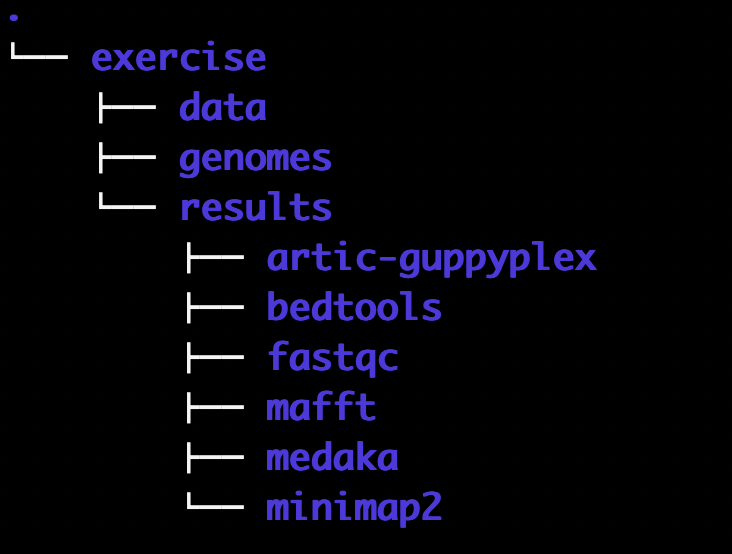
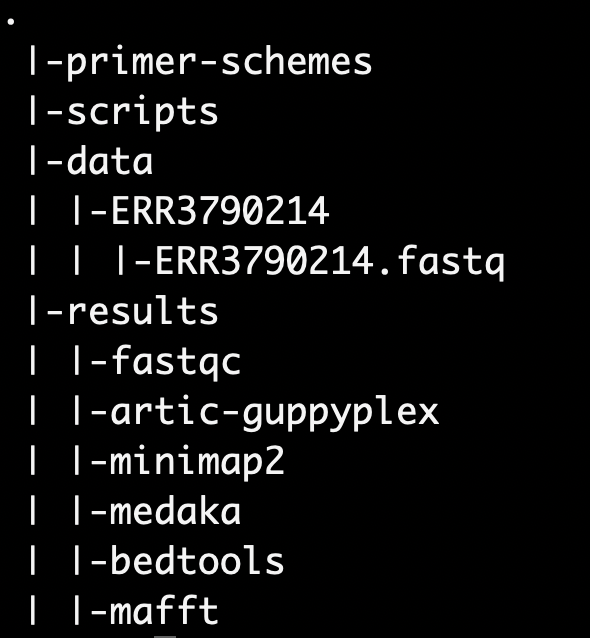
add primer-schemes directory

diff --git a/artic-ont-viral/practicals/README.md b/artic-ont-viral/practicals/README.md
@@ -43,8 +43,10 @@ The major steps of the pipeline can be presented as shown in the figure below
 The following auxilliary files are provided and you will need to create
 `symbolic` links 
 
-- Primer scheme for amplicon in `BED` format located at
-  `/var/scratch/global/ont-artic/primer-schemes`
+- Primer scheme for amplicon in `bed` format located at
+  `/var/scratch/global/ont-artic/primer-schemes/primer.bed`
+- Reference genome file in `fasta` format located at
+  `/var/scratch/global/ont-artic/primer-schemes/reference.fasta`
 - Additional Dengue virus genomes in `fasta` format located at
   `/var/scratch/global/ont-artic/auxilliary-dengue-genomes`
 - Utility scripts available at `/var/scratch/global/ont-artic/scripts`
@@ -60,16 +62,15 @@ Please document all the steps in the analysis and replicate the commands in a
 Ensure you are working in the `/var/scratch/$USER/` directory
 
 1. Login to the `hpc` using your provided credentials
-2. Begin an `interactive` session with 2 `cpus` on either `compute05` or `compute06`
-3. Organize your project directory structure as indicated below. 
+2. Begin an `interactive` session with 2 `cpus` on either `compute05` or
+   `compute06`
+3. Create `soft` or `symbolic` links to the required directories or files
+4. Organize your project directory structure as indicated below. 
 
     <img src="../img/dir-exercise.png" alt="Project directory structure"
     style="height: px; width:27212px;"/>
-4. Create `soft` or `symbolic` links to the required directories
 5. Load all the required modules that will be utilized in the analysis steps
-6. Retrieve the reference genome sequence from the NCBI database and output it
-   in the `genomes` directory
-7. The raw data in `fastq` format can be retrieved from the European Nucleotide
+6. The raw data in `fastq` format can be retrieved from the European Nucleotide
    Archive [(ENA)](https://www.ebi.ac.uk/ena/browser/) database. 
 
    Apply the appropriate tool to retrieve the raw reads for the accession
@@ -84,10 +85,8 @@ Ensure you are working in the `/var/scratch/$USER/` directory
     <br>
     </details>
 
-
-8. Download reference genome file in FASTA format using your preffered method.
  
-9. For use in variant calling and visualization of alignment, please create the
+7. For use in variant calling and visualization of alignment, please create the
    genome index of the reference genome
 
    >**<strong style="color:magenta;opacity: 0.80;">Quiz:</strong>**
@@ -95,7 +94,7 @@ Ensure you are working in the `/var/scratch/$USER/` directory
     - What does the above step perform?
     - What is the size of the genome in base pairs?
 
-10. Perform a quality assessment of the raw reads in `fastq` format and output
+8. Perform a quality assessment of the raw reads in `fastq` format and output
     the files in the appropriate directory.
 
     >**<strong style="color:magenta;opacity: 0.80;">Quiz:</strong>**
@@ -103,7 +102,7 @@ Ensure you are working in the `/var/scratch/$USER/` directory
     - Report the total number of sequences? sequences flagged as poor quality? sequence
     lengths distribution? and percetage GC content?
 
-11. Perform a preprocessing step to only select viable reads for subsequent
+9. Perform a preprocessing step to only select viable reads for subsequent
     downstream steps. Be guided by the primer scheme and the quality assessment
     report to select the optimal read lengths
     
@@ -118,7 +117,7 @@ Ensure you are working in the `/var/scratch/$USER/` directory
     - How many reads pass the filtering process when using your selected
       amplicon lengths?
 
-12. Perform reference based read alignment to the reference genome and output
+10. Perform reference based read alignment to the reference genome and output
     the alignment files in the appropriate directory. Carry out the steps that
     will:
     - The `FLAG` column in the alignment format allows us to identify the
@@ -130,12 +129,14 @@ Ensure you are working in the `/var/scratch/$USER/` directory
     >**<strong style="color:magenta;opacity: 0.80 ">Quiz:</strong>**
     - What is the percentage of mapped reads?
 
-13. Perform a post-alignment process to assign each raed to its derived
+11. Perform a post-alignment process to assign each raed to its derived
     amplicon, normalise the amplicons and remove incorrect primer-pairs. Output
     the results in the appropriate directory. After every post-processing step,
     sort and index the resulting alignments while naming the files with the
     prefixes
     `.trimmed.rg` and `primertrimmed.rg` as appropriate
+
+    - normalise to only retain retain amplicons with 200 reads
 
     >**<strong style="color:magenta;opacity: 0.80 ">Quiz:</strong>**
 
@@ -143,7 +144,7 @@ Ensure you are working in the `/var/scratch/$USER/` directory
     - What is the mapping rate of the primer trimmed alignments?
 
 
-14. For each primer pool, perform variant calling to while using the given model
+12. For each primer pool, perform variant calling to while using the given model
     and output the results in the relevant output directory. 
     
     - Ensure you follow all the steps including `INDELS` identification before
@@ -154,32 +155,32 @@ Ensure you are working in the `/var/scratch/$USER/` directory
       FAIL. 
     - Index the variants that PASS file after compression
     
-15. Compute depths for each primer pool and mask low depth regions to generate a
+13. Compute depths for each primer pool and mask low depth regions to generate a
     preconsensus file
     >**<strong style="color:magenta;opacity: 0.80 ">Quiz:</strong>**
     - What is the highest depth for each primer pool?
 
-16. Generate consensus sequence and rename the header of the resulting consensus
+14. Generate consensus sequence and rename the header of the resulting consensus
     file
 
     >**<strong style="color:magenta;opacity: 0.80 ">Quiz:</strong>**
     - What is the coverage of the resulting consensus sequence?
 
 
-17. Compute non-normalized read depth per position and plot the output using the
+15. Compute non-normalized read depth per position and plot the output using the
     utility Rscript provided
 
-18. In the alignment directoty, concatenate the reference genome file, the
+16. In the alignment directoty, concatenate the reference genome file, the
     `auxilliary-dengue-genomes` `fasta` files and the generated consensus sequence
     into a single `fasta` file
     - Ensure to only retain only the first string character and exclude the rest
       if the characters including the first space in the sequence headers
 
-19. Perform a multiple sequence alignment and generate a maximul likelihood
+17. Perform a multiple sequence alignment and generate a maximul likelihood
     phylogenetic tree
     
-20. Identify the serotype and genotype of the sample using the typing tool available at
+18. Identify the serotype and genotype of the sample using the typing tool available at
 https://www.genomedetective.com/app/typingtool/dengue/
 
-21. Transfer the outputs from the `hpc` to your `local` PC and visualize the
+19. Transfer the outputs from the `hpc` to your `local` PC and visualize the
     `.html`, `.bam`, `.pdf` and `treefile` using appropriate tools.
